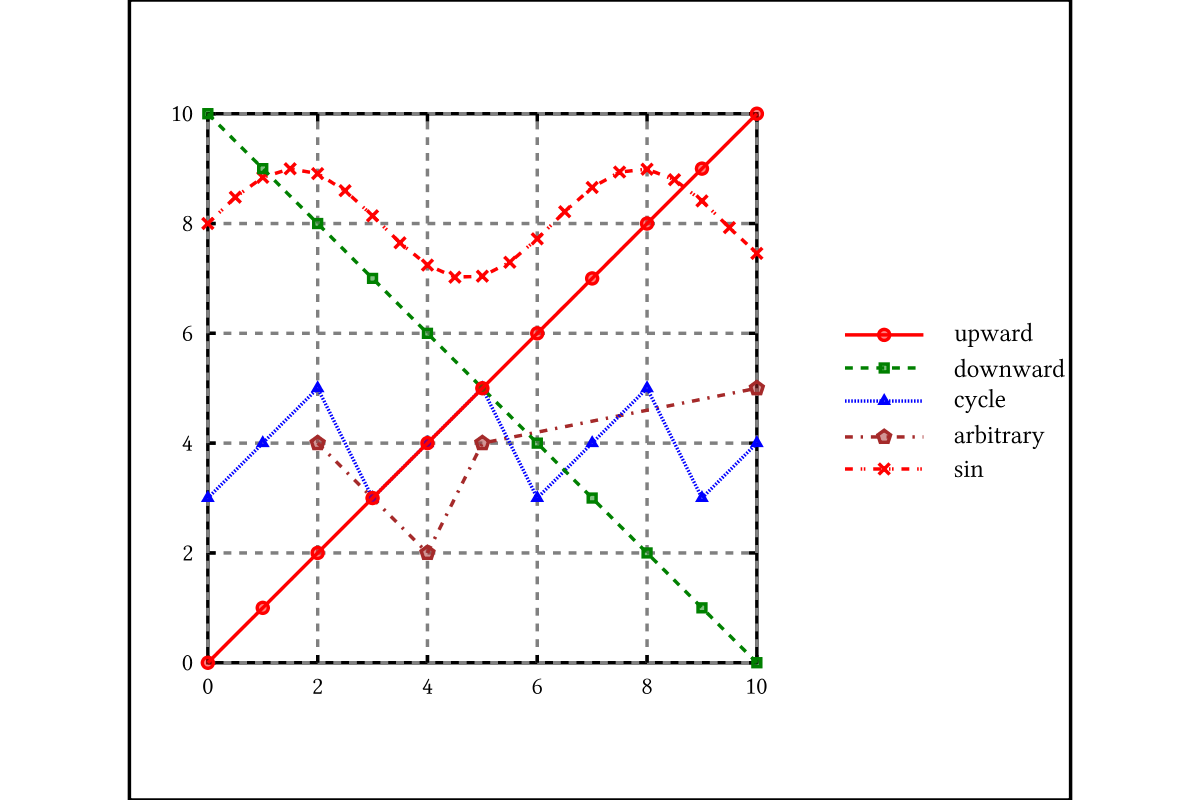
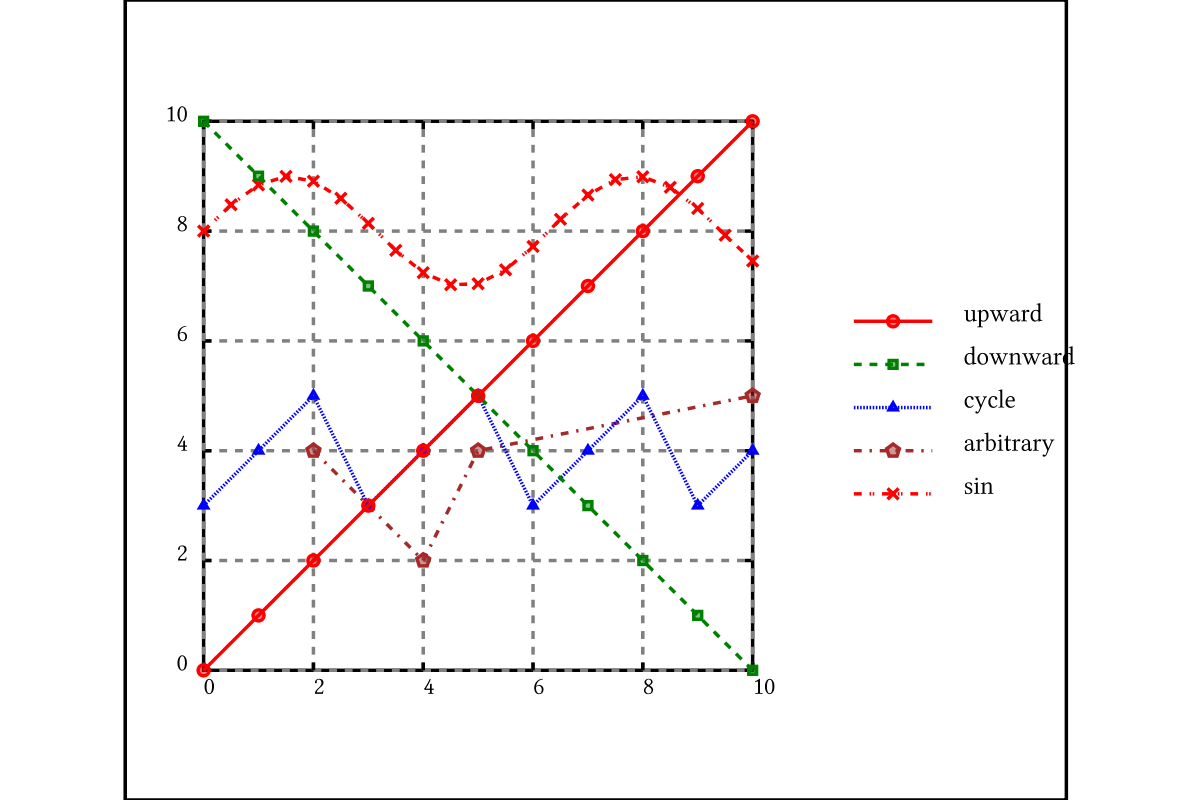
update for SVGFonts-1.8

diff --git a/gallery/SymmetryCube.html b/gallery/SymmetryCube.html
@@ -114,58 +114,56 @@ Author: <b><a href="http://www.cmears.id.au/">Chris Mears</a></b>
 <span id="cb4-6"><a href="#cb4-6" aria-hidden="true" tabindex="-1"></a>                                  strutY padding</span>
 <span id="cb4-7"><a href="#cb4-7" aria-hidden="true" tabindex="-1"></a>        height <span class="ot">=</span> diameter (r2 (<span class="dv">0</span>,<span class="dv">1</span>)) padded</span>
 <span id="cb4-8"><a href="#cb4-8" aria-hidden="true" tabindex="-1"></a>        width  <span class="ot">=</span> diameter (r2 (<span class="dv">1</span>,<span class="dv">0</span>)) padded</span>
-<span id="cb4-9"><a href="#cb4-9" aria-hidden="true" tabindex="-1"></a>    <span class="kw">in</span> centerXY innards <span class="op">&lt;&gt;</span> roundedRect width height <span class="fl">0.1</span></span>
-<span id="cb4-10"><a href="#cb4-10" aria-hidden="true" tabindex="-1"></a></span>
-<span id="cb4-11"><a href="#cb4-11" aria-hidden="true" tabindex="-1"></a>textOpts font n <span class="ot">=</span> <span class="dt">TextOpts</span> font <span class="dt">INSIDE_H</span> <span class="dt">KERN</span> <span class="dt">False</span> <span class="dv">1</span> n</span></code></pre></div>
+<span id="cb4-9"><a href="#cb4-9" aria-hidden="true" tabindex="-1"></a>    <span class="kw">in</span> centerXY innards <span class="op">&lt;&gt;</span> roundedRect width height <span class="fl">0.1</span></span></code></pre></div>
 <p>A single string of text.</p>
-<div class="sourceCode" id="cb5"><pre class="sourceCode haskell literate"><code class="sourceCode haskell"><span id="cb5-1"><a href="#cb5-1" aria-hidden="true" tabindex="-1"></a><span class="ot">text' ::</span> <span class="dt">PreparedFont</span> <span class="dt">Double</span> <span class="ot">-&gt;</span> <span class="dt">String</span> <span class="ot">-&gt;</span> <span class="dt">Double</span> <span class="ot">-&gt;</span> <span class="dt">Diagram</span> <span class="dt">B</span></span>
-<span id="cb5-2"><a href="#cb5-2" aria-hidden="true" tabindex="-1"></a>text' font s n <span class="ot">=</span> textSVG_ (textOpts font n) s <span class="op">#</span> fc white <span class="op">#</span> lw none</span></code></pre></div>
-<p>Several lines of text stacked vertically.</p>
-<div class="sourceCode" id="cb6"><pre class="sourceCode haskell literate"><code class="sourceCode haskell"><span id="cb6-1"><a href="#cb6-1" aria-hidden="true" tabindex="-1"></a>centredText font ls n <span class="ot">=</span> vcat' (with <span class="op">&amp;</span> catMethod <span class="op">.~</span> <span class="dt">Distrib</span> <span class="op">&amp;</span> sep <span class="op">.~</span> n)</span>
-<span id="cb6-2"><a href="#cb6-2" aria-hidden="true" tabindex="-1"></a>                     (<span class="fu">map</span> (\l <span class="ot">-&gt;</span> centerX (text' font l n)) ls)</span>
-<span id="cb6-3"><a href="#cb6-3" aria-hidden="true" tabindex="-1"></a>centredText' font s <span class="ot">=</span> centredText font (splitOn <span class="st">&quot;\n&quot;</span> s)</span></code></pre></div>
+<blockquote>
+<p>text’ font s h = (set_envelope . fit_height h . svgText def { textFont = font } $ s) # lw none # fc white Several lines of text stacked vertically.</p>
+</blockquote>
+<div class="sourceCode" id="cb5"><pre class="sourceCode haskell literate"><code class="sourceCode haskell"><span id="cb5-1"><a href="#cb5-1" aria-hidden="true" tabindex="-1"></a>centredText font ls n <span class="ot">=</span> vcat' (with <span class="op">&amp;</span> catMethod <span class="op">.~</span> <span class="dt">Distrib</span> <span class="op">&amp;</span> sep <span class="op">.~</span> n)</span>
+<span id="cb5-2"><a href="#cb5-2" aria-hidden="true" tabindex="-1"></a>                     (<span class="fu">map</span> (\l <span class="ot">-&gt;</span> centerX (text' font l n)) ls)</span>
+<span id="cb5-3"><a href="#cb5-3" aria-hidden="true" tabindex="-1"></a>centredText' font s <span class="ot">=</span> centredText font (splitOn <span class="st">&quot;\n&quot;</span> s)</span></code></pre></div>
 <p>Diagram-specific parameters, including the positioning vectors.</p>
-<div class="sourceCode" id="cb7"><pre class="sourceCode haskell literate"><code class="sourceCode haskell"><span id="cb7-1"><a href="#cb7-1" aria-hidden="true" tabindex="-1"></a>padAmount <span class="ot">=</span> <span class="fl">0.5</span></span>
-<span id="cb7-2"><a href="#cb7-2" aria-hidden="true" tabindex="-1"></a></span>
-<span id="cb7-3"><a href="#cb7-3" aria-hidden="true" tabindex="-1"></a>down <span class="ot">=</span> r2 (<span class="dv">0</span>, <span class="op">-</span><span class="dv">10</span>)</span>
-<span id="cb7-4"><a href="#cb7-4" aria-hidden="true" tabindex="-1"></a></span>
-<span id="cb7-5"><a href="#cb7-5" aria-hidden="true" tabindex="-1"></a>upright <span class="ot">=</span> r2 (<span class="dv">7</span>, <span class="dv">5</span>)</span>
-<span id="cb7-6"><a href="#cb7-6" aria-hidden="true" tabindex="-1"></a></span>
-<span id="cb7-7"><a href="#cb7-7" aria-hidden="true" tabindex="-1"></a>right <span class="ot">=</span> r2 (<span class="dv">15</span>, <span class="dv">0</span>)</span></code></pre></div>
+<div class="sourceCode" id="cb6"><pre class="sourceCode haskell literate"><code class="sourceCode haskell"><span id="cb6-1"><a href="#cb6-1" aria-hidden="true" tabindex="-1"></a>padAmount <span class="ot">=</span> <span class="fl">0.5</span></span>
+<span id="cb6-2"><a href="#cb6-2" aria-hidden="true" tabindex="-1"></a></span>
+<span id="cb6-3"><a href="#cb6-3" aria-hidden="true" tabindex="-1"></a>down <span class="ot">=</span> r2 (<span class="dv">0</span>, <span class="op">-</span><span class="dv">10</span>)</span>
+<span id="cb6-4"><a href="#cb6-4" aria-hidden="true" tabindex="-1"></a></span>
+<span id="cb6-5"><a href="#cb6-5" aria-hidden="true" tabindex="-1"></a>upright <span class="ot">=</span> r2 (<span class="dv">7</span>, <span class="dv">5</span>)</span>
+<span id="cb6-6"><a href="#cb6-6" aria-hidden="true" tabindex="-1"></a></span>
+<span id="cb6-7"><a href="#cb6-7" aria-hidden="true" tabindex="-1"></a>right <span class="ot">=</span> r2 (<span class="dv">15</span>, <span class="dv">0</span>)</span></code></pre></div>
 <p>A box with some interior text and a name.</p>
-<div class="sourceCode" id="cb8"><pre class="sourceCode haskell literate"><code class="sourceCode haskell"><span id="cb8-1"><a href="#cb8-1" aria-hidden="true" tabindex="-1"></a>mybox font s n <span class="ot">=</span> (box (centredText' font s <span class="dv">1</span>) padAmount) <span class="op">#</span> named n</span></code></pre></div>
+<div class="sourceCode" id="cb7"><pre class="sourceCode haskell literate"><code class="sourceCode haskell"><span id="cb7-1"><a href="#cb7-1" aria-hidden="true" tabindex="-1"></a>mybox font s n <span class="ot">=</span> (box (centredText' font s <span class="dv">1</span>) padAmount) <span class="op">#</span> named n</span></code></pre></div>
 <p>The cube is just several boxes superimposed, positioned by adding together some positioning vectors.</p>
-<div class="sourceCode" id="cb9"><pre class="sourceCode haskell literate"><code class="sourceCode haskell"><span id="cb9-1"><a href="#cb9-1" aria-hidden="true" tabindex="-1"></a><span class="ot">sCube ::</span> <span class="dt">PreparedFont</span> <span class="dt">Double</span> <span class="ot">-&gt;</span> <span class="dt">Diagram</span> <span class="dt">B</span></span>
-<span id="cb9-2"><a href="#cb9-2" aria-hidden="true" tabindex="-1"></a>sCube font <span class="ot">=</span> fc navy <span class="op">$</span> <span class="fu">mconcat</span></span>
-<span id="cb9-3"><a href="#cb9-3" aria-hidden="true" tabindex="-1"></a>  [ mybox font <span class="st">&quot;Permutation&quot;</span> <span class="st">&quot;perm&quot;</span></span>
-<span id="cb9-4"><a href="#cb9-4" aria-hidden="true" tabindex="-1"></a>  , mybox font <span class="st">&quot;Permutation\ngroup&quot;</span> <span class="st">&quot;permgroup&quot;</span>                     <span class="op">#</span> translate right</span>
-<span id="cb9-5"><a href="#cb9-5" aria-hidden="true" tabindex="-1"></a>  , mybox font <span class="st">&quot;Symmetry&quot;</span> <span class="st">&quot;sym&quot;</span>                                     <span class="op">#</span> translate upright</span>
-<span id="cb9-6"><a href="#cb9-6" aria-hidden="true" tabindex="-1"></a>  , mybox font <span class="st">&quot;Parameterised\npermutation&quot;</span> <span class="st">&quot;paramperm&quot;</span>             <span class="op">#</span> translate down</span>
-<span id="cb9-7"><a href="#cb9-7" aria-hidden="true" tabindex="-1"></a>  , mybox font <span class="st">&quot;Parameterised\npermutation\ngroup&quot;</span> <span class="st">&quot;parampermgroup&quot;</span> <span class="op">#</span> translate (right <span class="op">^+^</span> down)</span>
-<span id="cb9-8"><a href="#cb9-8" aria-hidden="true" tabindex="-1"></a>  , mybox font <span class="st">&quot;Parameterised\nsymmetry&quot;</span> <span class="st">&quot;paramsym&quot;</span>                 <span class="op">#</span> translate (down <span class="op">^+^</span> upright)</span>
-<span id="cb9-9"><a href="#cb9-9" aria-hidden="true" tabindex="-1"></a>  , mybox font <span class="st">&quot;Symmetry\ngroup&quot;</span> <span class="st">&quot;symgroup&quot;</span>                         <span class="op">#</span> translate (upright <span class="op">^+^</span> right)</span>
-<span id="cb9-10"><a href="#cb9-10" aria-hidden="true" tabindex="-1"></a>  , mybox font <span class="st">&quot;Parameterised\nsymmetry\ngroup&quot;</span> <span class="st">&quot;paramsymgroup&quot;</span>     <span class="op">#</span> translate (down <span class="op">^+^</span> right <span class="op">^+^</span> upright)</span>
-<span id="cb9-11"><a href="#cb9-11" aria-hidden="true" tabindex="-1"></a>               ]</span></code></pre></div>
+<div class="sourceCode" id="cb8"><pre class="sourceCode haskell literate"><code class="sourceCode haskell"><span id="cb8-1"><a href="#cb8-1" aria-hidden="true" tabindex="-1"></a><span class="ot">sCube ::</span> <span class="dt">PreparedFont</span> <span class="dt">Double</span> <span class="ot">-&gt;</span> <span class="dt">Diagram</span> <span class="dt">B</span></span>
+<span id="cb8-2"><a href="#cb8-2" aria-hidden="true" tabindex="-1"></a>sCube font <span class="ot">=</span> fc navy <span class="op">$</span> <span class="fu">mconcat</span></span>
+<span id="cb8-3"><a href="#cb8-3" aria-hidden="true" tabindex="-1"></a>  [ mybox font <span class="st">&quot;Permutation&quot;</span> <span class="st">&quot;perm&quot;</span></span>
+<span id="cb8-4"><a href="#cb8-4" aria-hidden="true" tabindex="-1"></a>  , mybox font <span class="st">&quot;Permutation\ngroup&quot;</span> <span class="st">&quot;permgroup&quot;</span>                     <span class="op">#</span> translate right</span>
+<span id="cb8-5"><a href="#cb8-5" aria-hidden="true" tabindex="-1"></a>  , mybox font <span class="st">&quot;Symmetry&quot;</span> <span class="st">&quot;sym&quot;</span>                                     <span class="op">#</span> translate upright</span>
+<span id="cb8-6"><a href="#cb8-6" aria-hidden="true" tabindex="-1"></a>  , mybox font <span class="st">&quot;Parameterised\npermutation&quot;</span> <span class="st">&quot;paramperm&quot;</span>             <span class="op">#</span> translate down</span>
+<span id="cb8-7"><a href="#cb8-7" aria-hidden="true" tabindex="-1"></a>  , mybox font <span class="st">&quot;Parameterised\npermutation\ngroup&quot;</span> <span class="st">&quot;parampermgroup&quot;</span> <span class="op">#</span> translate (right <span class="op">^+^</span> down)</span>
+<span id="cb8-8"><a href="#cb8-8" aria-hidden="true" tabindex="-1"></a>  , mybox font <span class="st">&quot;Parameterised\nsymmetry&quot;</span> <span class="st">&quot;paramsym&quot;</span>                 <span class="op">#</span> translate (down <span class="op">^+^</span> upright)</span>
+<span id="cb8-9"><a href="#cb8-9" aria-hidden="true" tabindex="-1"></a>  , mybox font <span class="st">&quot;Symmetry\ngroup&quot;</span> <span class="st">&quot;symgroup&quot;</span>                         <span class="op">#</span> translate (upright <span class="op">^+^</span> right)</span>
+<span id="cb8-10"><a href="#cb8-10" aria-hidden="true" tabindex="-1"></a>  , mybox font <span class="st">&quot;Parameterised\nsymmetry\ngroup&quot;</span> <span class="st">&quot;paramsymgroup&quot;</span>     <span class="op">#</span> translate (down <span class="op">^+^</span> right <span class="op">^+^</span> upright)</span>
+<span id="cb8-11"><a href="#cb8-11" aria-hidden="true" tabindex="-1"></a>               ]</span></code></pre></div>
 <p>For each pair (a,b) of names, draw an arrow from diagram “a” to diagram “b”.</p>
-<div class="sourceCode" id="cb10"><pre class="sourceCode haskell literate"><code class="sourceCode haskell"><span id="cb10-1"><a href="#cb10-1" aria-hidden="true" tabindex="-1"></a><span class="ot">drawLines ::</span> <span class="dt">Diagram</span> <span class="dt">B</span> <span class="ot">-&gt;</span> <span class="dt">Diagram</span> <span class="dt">B</span></span>
-<span id="cb10-2"><a href="#cb10-2" aria-hidden="true" tabindex="-1"></a>drawLines cube <span class="ot">=</span> <span class="fu">foldr</span> (<span class="op">.</span>) <span class="fu">id</span> (<span class="fu">map</span> (<span class="fu">uncurry</span></span>
-<span id="cb10-3"><a href="#cb10-3" aria-hidden="true" tabindex="-1"></a>                       (connectOutside' (with</span>
-<span id="cb10-4"><a href="#cb10-4" aria-hidden="true" tabindex="-1"></a>                       <span class="op">&amp;</span> headLength <span class="op">.~</span> small</span>
-<span id="cb10-5"><a href="#cb10-5" aria-hidden="true" tabindex="-1"></a>                       <span class="op">&amp;</span> shaftStyle <span class="op">%~</span> lw thin))) pairs) cube</span>
-<span id="cb10-6"><a href="#cb10-6" aria-hidden="true" tabindex="-1"></a>  <span class="kw">where</span> pairs <span class="ot">=</span> [ (<span class="st">&quot;perm&quot;</span>,<span class="st">&quot;permgroup&quot;</span>)</span>
-<span id="cb10-7"><a href="#cb10-7" aria-hidden="true" tabindex="-1"></a>                , (<span class="st">&quot;perm&quot;</span>,<span class="st">&quot;sym&quot;</span>)</span>
-<span id="cb10-8"><a href="#cb10-8" aria-hidden="true" tabindex="-1"></a>                , (<span class="st">&quot;perm&quot;</span>,<span class="st">&quot;paramperm&quot;</span>)</span>
-<span id="cb10-9"><a href="#cb10-9" aria-hidden="true" tabindex="-1"></a>                , (<span class="st">&quot;paramperm&quot;</span>,<span class="st">&quot;paramsym&quot;</span>)</span>
-<span id="cb10-10"><a href="#cb10-10" aria-hidden="true" tabindex="-1"></a>                , (<span class="st">&quot;sym&quot;</span>,<span class="st">&quot;symgroup&quot;</span>)</span>
-<span id="cb10-11"><a href="#cb10-11" aria-hidden="true" tabindex="-1"></a>                , (<span class="st">&quot;paramsym&quot;</span>,<span class="st">&quot;paramsymgroup&quot;</span>)</span>
-<span id="cb10-12"><a href="#cb10-12" aria-hidden="true" tabindex="-1"></a>                , (<span class="st">&quot;permgroup&quot;</span>,<span class="st">&quot;symgroup&quot;</span>)</span>
-<span id="cb10-13"><a href="#cb10-13" aria-hidden="true" tabindex="-1"></a>                , (<span class="st">&quot;paramperm&quot;</span>,<span class="st">&quot;parampermgroup&quot;</span>)</span>
-<span id="cb10-14"><a href="#cb10-14" aria-hidden="true" tabindex="-1"></a>                , (<span class="st">&quot;symgroup&quot;</span>,<span class="st">&quot;paramsymgroup&quot;</span>)</span>
-<span id="cb10-15"><a href="#cb10-15" aria-hidden="true" tabindex="-1"></a>                , (<span class="st">&quot;sym&quot;</span>,<span class="st">&quot;paramsym&quot;</span>)</span>
-<span id="cb10-16"><a href="#cb10-16" aria-hidden="true" tabindex="-1"></a>                , (<span class="st">&quot;permgroup&quot;</span>,<span class="st">&quot;parampermgroup&quot;</span>)</span>
-<span id="cb10-17"><a href="#cb10-17" aria-hidden="true" tabindex="-1"></a>                , (<span class="st">&quot;parampermgroup&quot;</span>,<span class="st">&quot;paramsymgroup&quot;</span>)</span>
-<span id="cb10-18"><a href="#cb10-18" aria-hidden="true" tabindex="-1"></a>                ]</span></code></pre></div>
-<div class="sourceCode" id="cb11"><pre class="sourceCode haskell literate"><code class="sourceCode haskell"><span id="cb11-1"><a href="#cb11-1" aria-hidden="true" tabindex="-1"></a>main <span class="ot">=</span> mainWith (<span class="ot">example ::</span> <span class="dt">Diagram</span> <span class="dt">B</span>)</span></code></pre></div>
+<div class="sourceCode" id="cb9"><pre class="sourceCode haskell literate"><code class="sourceCode haskell"><span id="cb9-1"><a href="#cb9-1" aria-hidden="true" tabindex="-1"></a><span class="ot">drawLines ::</span> <span class="dt">Diagram</span> <span class="dt">B</span> <span class="ot">-&gt;</span> <span class="dt">Diagram</span> <span class="dt">B</span></span>
+<span id="cb9-2"><a href="#cb9-2" aria-hidden="true" tabindex="-1"></a>drawLines cube <span class="ot">=</span> <span class="fu">foldr</span> (<span class="op">.</span>) <span class="fu">id</span> (<span class="fu">map</span> (<span class="fu">uncurry</span></span>
+<span id="cb9-3"><a href="#cb9-3" aria-hidden="true" tabindex="-1"></a>                       (connectOutside' (with</span>
+<span id="cb9-4"><a href="#cb9-4" aria-hidden="true" tabindex="-1"></a>                       <span class="op">&amp;</span> headLength <span class="op">.~</span> small</span>
+<span id="cb9-5"><a href="#cb9-5" aria-hidden="true" tabindex="-1"></a>                       <span class="op">&amp;</span> shaftStyle <span class="op">%~</span> lw thin))) pairs) cube</span>
+<span id="cb9-6"><a href="#cb9-6" aria-hidden="true" tabindex="-1"></a>  <span class="kw">where</span> pairs <span class="ot">=</span> [ (<span class="st">&quot;perm&quot;</span>,<span class="st">&quot;permgroup&quot;</span>)</span>
+<span id="cb9-7"><a href="#cb9-7" aria-hidden="true" tabindex="-1"></a>                , (<span class="st">&quot;perm&quot;</span>,<span class="st">&quot;sym&quot;</span>)</span>
+<span id="cb9-8"><a href="#cb9-8" aria-hidden="true" tabindex="-1"></a>                , (<span class="st">&quot;perm&quot;</span>,<span class="st">&quot;paramperm&quot;</span>)</span>
+<span id="cb9-9"><a href="#cb9-9" aria-hidden="true" tabindex="-1"></a>                , (<span class="st">&quot;paramperm&quot;</span>,<span class="st">&quot;paramsym&quot;</span>)</span>
+<span id="cb9-10"><a href="#cb9-10" aria-hidden="true" tabindex="-1"></a>                , (<span class="st">&quot;sym&quot;</span>,<span class="st">&quot;symgroup&quot;</span>)</span>
+<span id="cb9-11"><a href="#cb9-11" aria-hidden="true" tabindex="-1"></a>                , (<span class="st">&quot;paramsym&quot;</span>,<span class="st">&quot;paramsymgroup&quot;</span>)</span>
+<span id="cb9-12"><a href="#cb9-12" aria-hidden="true" tabindex="-1"></a>                , (<span class="st">&quot;permgroup&quot;</span>,<span class="st">&quot;symgroup&quot;</span>)</span>
+<span id="cb9-13"><a href="#cb9-13" aria-hidden="true" tabindex="-1"></a>                , (<span class="st">&quot;paramperm&quot;</span>,<span class="st">&quot;parampermgroup&quot;</span>)</span>
+<span id="cb9-14"><a href="#cb9-14" aria-hidden="true" tabindex="-1"></a>                , (<span class="st">&quot;symgroup&quot;</span>,<span class="st">&quot;paramsymgroup&quot;</span>)</span>
+<span id="cb9-15"><a href="#cb9-15" aria-hidden="true" tabindex="-1"></a>                , (<span class="st">&quot;sym&quot;</span>,<span class="st">&quot;paramsym&quot;</span>)</span>
+<span id="cb9-16"><a href="#cb9-16" aria-hidden="true" tabindex="-1"></a>                , (<span class="st">&quot;permgroup&quot;</span>,<span class="st">&quot;parampermgroup&quot;</span>)</span>
+<span id="cb9-17"><a href="#cb9-17" aria-hidden="true" tabindex="-1"></a>                , (<span class="st">&quot;parampermgroup&quot;</span>,<span class="st">&quot;paramsymgroup&quot;</span>)</span>
+<span id="cb9-18"><a href="#cb9-18" aria-hidden="true" tabindex="-1"></a>                ]</span></code></pre></div>
+<div class="sourceCode" id="cb10"><pre class="sourceCode haskell literate"><code class="sourceCode haskell"><span id="cb10-1"><a href="#cb10-1" aria-hidden="true" tabindex="-1"></a>main <span class="ot">=</span> mainWith (<span class="ot">example ::</span> <span class="dt">Diagram</span> <span class="dt">B</span>)</span></code></pre></div>
 
 </div>
 

diff --git a/gallery/Chart.html b/gallery/Chart.html
@@ -152,7 +152,9 @@ Author: <b><a href="http://www.cmears.id.au/">Chris Mears</a></b>
 <span id="cb8-3"><a href="#cb8-3" aria-hidden="true" tabindex="-1"></a>    <span class="fu">mconcat</span> <span class="op">$</span> <span class="fu">zipWith</span> (<span class="fu">uncurry</span> (plot dataToFrac)) (styles <span class="op">++</span> plotStyles) seriesList</span></code></pre></div>
 <p>A string of text, converted to a path and filled.</p>
 <div class="sourceCode" id="cb9"><pre class="sourceCode haskell literate"><code class="sourceCode haskell"><span id="cb9-1"><a href="#cb9-1" aria-hidden="true" tabindex="-1"></a><span class="ot">text' ::</span> <span class="dt">PreparedFont</span> <span class="dt">Double</span> <span class="ot">-&gt;</span> <span class="dt">String</span> <span class="ot">-&gt;</span> <span class="dt">Dia</span></span>
-<span id="cb9-2"><a href="#cb9-2" aria-hidden="true" tabindex="-1"></a>text' font s <span class="ot">=</span> (strokeP <span class="op">$</span> textSVG' (<span class="dt">TextOpts</span> font <span class="dt">INSIDE_H</span> <span class="dt">KERN</span> <span class="dt">False</span> <span class="fl">0.4</span> <span class="fl">0.4</span>) s) <span class="op">#</span> fc black <span class="op">#</span> lw none</span></code></pre></div>
+<span id="cb9-2"><a href="#cb9-2" aria-hidden="true" tabindex="-1"></a>text' font s</span>
+<span id="cb9-3"><a href="#cb9-3" aria-hidden="true" tabindex="-1"></a>  <span class="ot">=</span> (set_envelope <span class="op">.</span> fit_height <span class="fl">0.4</span> <span class="op">.</span> svgText def { textFont <span class="ot">=</span> font } <span class="op">$</span> s)</span>
+<span id="cb9-4"><a href="#cb9-4" aria-hidden="true" tabindex="-1"></a>  <span class="op">#</span> fc black <span class="op">#</span> lw none</span></code></pre></div>
 <p>The chart’s legend. Each label is drawn next to a little example of how the line looks in the chart.</p>
 <div class="sourceCode" id="cb10"><pre class="sourceCode haskell literate"><code class="sourceCode haskell"><span id="cb10-1"><a href="#cb10-1" aria-hidden="true" tabindex="-1"></a><span class="ot">legend ::</span> <span class="dt">PreparedFont</span> <span class="dt">Double</span> <span class="ot">-&gt;</span> [(<span class="dt">Dia</span>, <span class="dt">Dia</span> <span class="ot">-&gt;</span> <span class="dt">Dia</span>)] <span class="ot">-&gt;</span> [<span class="dt">String</span>] <span class="ot">-&gt;</span> <span class="dt">Dia</span></span>
 <span id="cb10-2"><a href="#cb10-2" aria-hidden="true" tabindex="-1"></a>legend font styles labels <span class="ot">=</span> centerXY <span class="op">$</span></span>

diff --git a/doc/arrow.html b/doc/arrow.html
@@ -302,8 +302,9 @@ boundaries of the diagrams, using traces to find the intersection
 points.</p><div class="examplesrc"><div class="sourceCode"><pre class="sourceCode"><code class="sourceCode"><span class="ot">></span> connectOutside <span class="st">"diagram1"</span> <span class="st">"diagram2"</span>
 <span class="ot">></span> connectPerim <span class="st">"diagram"</span> <span class="st">"diagram"</span> (<span class="dv">2</span><span class="fu">/</span><span class="dv">12</span> <span class="fu">@@</span> turn) (<span class="dv">4</span><span class="fu">/</span><span class="dv">12</span> <span class="fu">@@</span> turn)</code></pre></div></div><p>Here is an example of a finite state automata that accepts real numbers.
 The code is a bit longer than what we have seen so far, but still very
-straightforward.</p><div class="dia-lhs panel panel-default"><div class="panel-body"><div style="text-align: center"><img src="images/3102d48f4635f1d1.png" width="500" height="200" /></div><div class="sourceCode"><pre class="sourceCode"><code class="sourceCode"><span class="ot">></span> text' font d s <span class="fu">=</span> (strokeP <span class="fu">$</span> textSVG' (<span class="dt">TextOpts</span> font <span class="dt">INSIDE_H</span> <span class="dt">KERN</span> <span class="dt">False</span> d d) s)
-<span class="ot">></span>                <span class="fu">#</span> lw none <span class="fu">#</span> fc black
+straightforward.</p><div class="dia-lhs panel panel-default"><div class="panel-body"><div style="text-align: center"><img src="images/f55b268f071ec326.png" width="500" height="200" /></div><div class="sourceCode"><pre class="sourceCode"><code class="sourceCode"><span class="ot">></span> text' font h s
+<span class="ot">></span>   <span class="fu">=</span> (SF.set_envelope <span class="fu">.</span> SF.fit_height h <span class="fu">.</span> SF.svgText def { SF.textFont <span class="fu">=</span> font } <span class="fu">$</span> s)
+<span class="ot">></span>   <span class="fu">#</span> lw none <span class="fu">#</span> fc black <span class="fu">#</span> centerXY
 <span class="ot">></span>
 <span class="ot">></span> stateLabel font <span class="fu">=</span> text' font <span class="dv">6</span>
 <span class="ot">></span> arrowLabel font txt size <span class="fu">=</span> text' font size txt

diff --git a/doc/manual.html b/doc/manual.html
@@ -2009,8 +2009,8 @@ associated with its source code.</p></li></ul></li></ul></div><div class="sectio
 using fonts in the SVG format (note that it can be used with <em>any</em>
 backend, not just the SVG backend). Among other things, it provides
 its own <code class="sourceCode">textSVG</code> function which can be used to convert text into a
-<em>path</em> tracing the outline of the text.  Here is a simple example:</p><div class="dia-lhs panel panel-default"><div class="panel-body"><div style="text-align: center"><img src="images/28c6a7297555f719.png" width="500" height="200" /></div><div class="sourceCode"><pre class="sourceCode"><code class="sourceCode"><span class="ot">></span> text' font d s
-<span class="ot">></span>   <span class="fu">=</span> (strokeP <span class="fu">$</span> SF.textSVG' (<span class="dt">SF.TextOpts</span> font <span class="dt">SF.INSIDE_H</span> <span class="dt">SF.KERN</span> <span class="dt">False</span> d d) s)
+<em>path</em> tracing the outline of the text.  Here is a simple example:</p><div class="dia-lhs panel panel-default"><div class="panel-body"><div style="text-align: center"><img src="images/e4e4a386b7bbde1d.png" width="500" height="200" /></div><div class="sourceCode"><pre class="sourceCode"><code class="sourceCode"><span class="ot">></span> text' font h s
+<span class="ot">></span>   <span class="fu">=</span> (SF.set_envelope <span class="fu">.</span> SF.fit_height h <span class="fu">.</span> SF.svgText def { SF.textFont <span class="fu">=</span> font } <span class="fu">$</span> s)
 <span class="ot">></span>   <span class="fu">#</span> lw none
 <span class="ot">></span>
 <span class="ot">></span> example <span class="fu">=</span> <span class="kw">do</span>

diff --git a/doc/vector.html b/doc/vector.html
@@ -94,7 +94,7 @@ many of the exercises have multiple good solutions.</p></div><div class="section
 In two dimensions, you can think of a vector as a pair of coordinates,
 representing <em>displacements</em> in the \(x\) and \(y\)
 directions. Alternatively, you can think of a vector as consisting of
-a <em>magnitude</em> (length) and a <em>direction</em> (angle).</p><div class="exampleimg"><div style="text-align: center"><img src="images/cb8f035e56f3cc4a.png" width="500" height="200" /></div></div><p>One of the most
+a <em>magnitude</em> (length) and a <em>direction</em> (angle).</p><div class="exampleimg"><div style="text-align: center"><img src="images/9e0cc03d9c8cd0b1.png" width="500" height="200" /></div></div><p>One of the most
 important things to understand about vectors is that they are
 <em>translation-invariant</em>: that is, they have no specific location in
 space, and are unaffected by translations (though they are affected by
